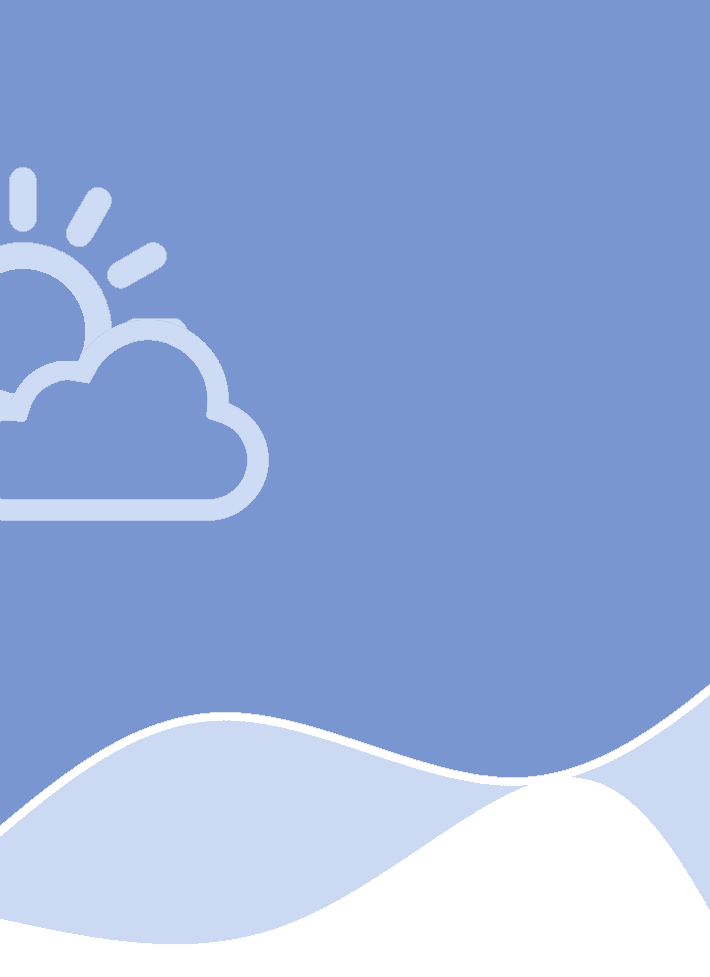
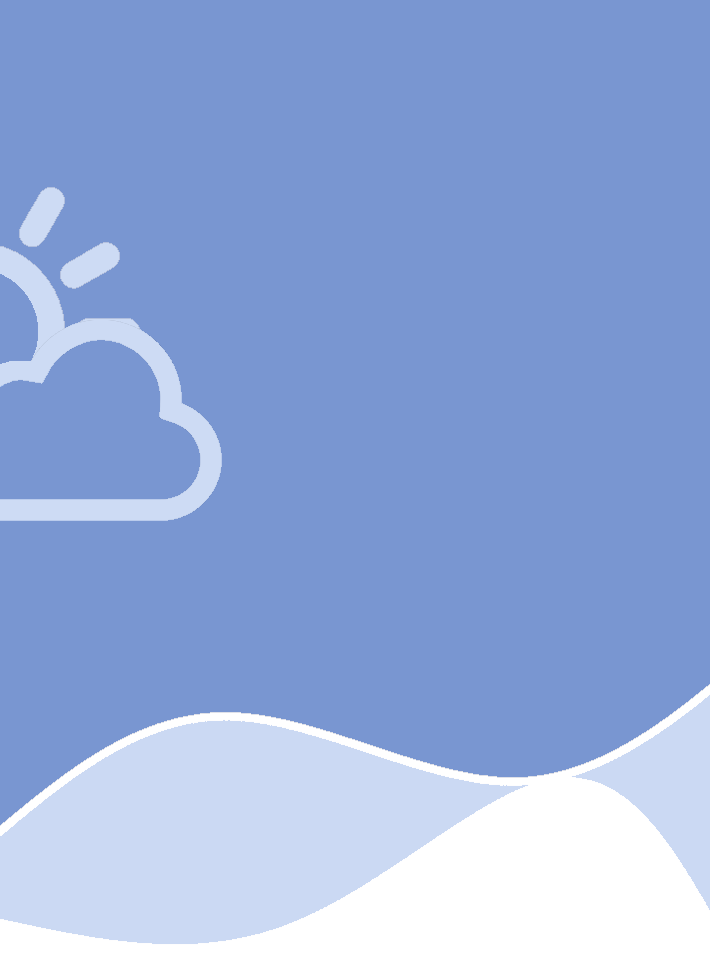
Creating conditional rendering changing background

Changed region(s): [[0.0, 0.1535, 0.4028, 0.5527]]

diff --git a/src/SearchEngine.js b/src/SearchEngine.js
@@ -1,8 +1,23 @@
 import axios from "axios";
 import React, { useState } from "react";
 import "./SearchEngine.css";
-
+//import BackgroundImage from "./BackgroundImage";
 import WeatherInfo from "./WeatherInfo";
+// Background images
+import Sunny from "./img/01d.png";
+import CleanNight from "./img/02n.png";
+import PartlyCloudyDay from "./img/02d.png";
+import PartlyCloudyNight from "./img/02n.png";
+import CloudyDay from "./img/03d.png";
+import CloudyNight from "./img/03n.png";
+import RainyDay from "./img/09d.png";
+import RainyNight from "./img/09n.png";
+import StormDay from "./img/11d.png";
+import StormNight from "./img/11n.png";
+import SnowDay from "./img/13d.png";
+import SnowNight from "./img/13n.png";
+import FogDay from "./img/50d.png";
+import FogNight from "./img/50n.png";
 
 export default function SearchEngine(props) {
   const [weatherData, setWeatherData] = useState({ ready: false });
@@ -13,6 +28,7 @@ export default function SearchEngine(props) {
       temperature: Math.round(response.data.main.temp),
       humidity: response.data.main.humidity,
       description: response.data.weather[0].description,
+      icon: response.data.weather[0].icon,
       wind: Math.round(response.data.wind.speed),
       city: response.data.name,
       country: response.data.sys.country,
@@ -38,16 +54,61 @@ export default function SearchEngine(props) {
 
   if (weatherData.ready) {
     return (
-      <div className="SearchEngine row">
-        <form onSubmit={handleSubmit}>
-          <input
-            onChange={updateCity}
-            className="search-window col-9"
-            type="search"
-            placeholder="select a city..."
-          />
-          <input className="submit-button col-2" type="submit" value="search" />
-        </form>
+      <div
+        className="current-weather"
+        style={{
+          backgroundImage:
+            weatherData.icon === "01d"
+              ? `url(${Sunny})`
+              : weatherData.icon === "01n"
+              ? `url(${CleanNight})`
+              : weatherData.icon === "02d"
+              ? `url(${PartlyCloudyDay})`
+              : weatherData.icon === "02n"
+              ? `url(${PartlyCloudyNight})`
+              : weatherData.icon === "03d" || weatherData.icon === "04d"
+              ? `url(${CloudyDay})`
+              : weatherData.icon === "03n" || weatherData.icon === "04n"
+              ? `url(${CloudyNight})`
+              : weatherData.icon === "09d" || weatherData.icon === "10d"
+              ? `url(${RainyDay})`
+              : weatherData.icon === "09n" || weatherData.icon === "10n"
+              ? `url(${RainyNight})`
+              : weatherData.icon === "11d"
+              ? `url(${StormDay})`
+              : weatherData.icon === "11n"
+              ? `url(${StormNight})`
+              : weatherData.icon === "13d"
+              ? `url(${SnowDay})`
+              : weatherData.icon === "13n"
+              ? `url(${SnowNight})`
+              : weatherData.icon === "50d"
+              ? `url(${FogDay})`
+              : weatherData.icon === "50n"
+              ? `url(${FogNight})`
+              : `url(${CloudyDay})`,
+          backgroundSize: "cover",
+          width: "100%",
+          padding: "30px",
+          borderRadius: "17px",
+          transition: "2s",
+        }}
+      >
+        <div className="SearchEngine row">
+          <form onSubmit={handleSubmit}>
+            <input
+              onChange={updateCity}
+              className="search-window col-9"
+              type="search"
+              placeholder="select a city..."
+            />
+            <input
+              className="submit-button col-2"
+              type="submit"
+              value="search"
+            />
+          </form>
+        </div>
         <WeatherInfo data={weatherData} />
       </div>
     );

diff --git a/src/App.js b/src/App.js
@@ -6,27 +6,25 @@ import "bootstrap/dist/css/bootstrap.min.css";
 export default function App() {
   return (
     <div className="App">
-      <div className="current-weather">
-        <SearchEngine defaultCity="Nicosia" />
-        <footer>
-          The app was coded by{" "}
-          <a
-            href="https://tubular-starlight-a3612b.netlify.app"
-            target="_blank"
-            rel="noreferrer"
-          >
-            AppleEve{" "}
-          </a>{" "}
-          and is{" "}
-          <a
-            href="https://github.com/AppleEve/Weather_App_Project_React"
-            target="_blank"
-            rel="noreferrer"
-          >
-            open-sourced.
-          </a>
-        </footer>
-      </div>
+      <SearchEngine defaultCity="Nicosia" />
+      <footer>
+        The app was coded by{" "}
+        <a
+          href="https://tubular-starlight-a3612b.netlify.app"
+          target="_blank"
+          rel="noreferrer"
+        >
+          AppleEve{" "}
+        </a>{" "}
+        and is{" "}
+        <a
+          href="https://github.com/AppleEve/Weather_App_Project_React"
+          target="_blank"
+          rel="noreferrer"
+        >
+          open-sourced.
+        </a>
+      </footer>
     </div>
   );
 }

diff --git a/src/App.css b/src/App.css
@@ -18,14 +18,6 @@
   color: rgb(255, 255, 255, 0.3);
 }
 
-.App .current-weather {
-  background-image: url("./img/01d.png");
-  background-size: cover;
-  width: 100%;
-  padding: 30px;
-  border-radius: 17px;
-}
-
 .App .city-country {
   margin-top: 30px;
   font-size: 30px;

diff --git a/src/SearchEngine.css b/src/SearchEngine.css
@@ -1,3 +1,10 @@
+.SearchEngine .current-weather {
+  background-size: cover;
+  width: 100%;
+  padding: 30px;
+  border-radius: 17px;
+}
+
 .SearchEngine .search-window,
 .SearchEngine .submit-button {
   border-radius: 10px;
